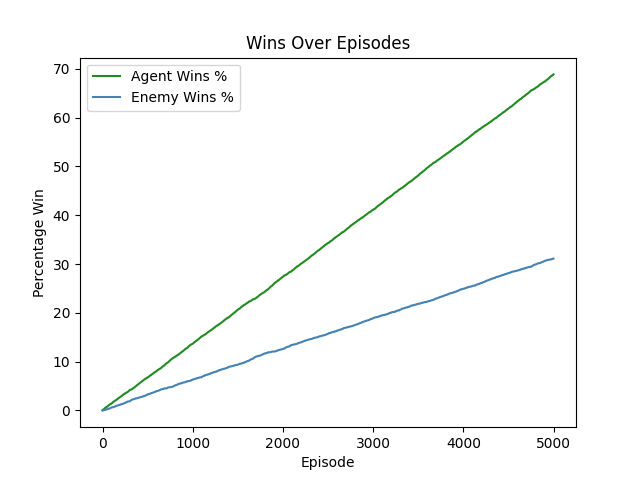
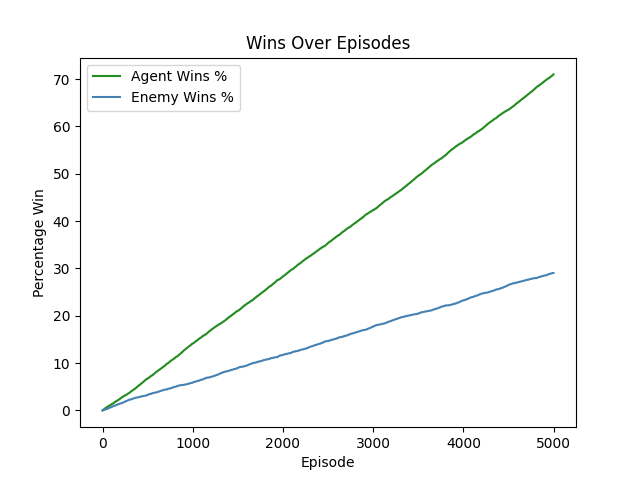
loading updated models

diff --git a/training/q_learning.py b/training/q_learning.py
@@ -10,7 +10,7 @@ from environment.rewards import states
 
 
 SAVE_CSV_RESULTS = False     # True in grid search mode, else False.
-SAVE_PLOTS = True            # True when not in grid search mode, else False.
+SAVE_PLOTS = True          # True when not in grid search mode, else False.
 SELF_PLAY = True
 
 
@@ -183,7 +183,7 @@ if __name__ == '__main__':
 
     # The best configuration.
     exploration_probabilities = [0.1]
-    learning_rates = [0.4]
+    learning_rates = [0.3]
     discount_factors = [0.3]
 
     best_percentage_win_agent = 0

diff --git a/training/sarsa.py b/training/sarsa.py
@@ -186,8 +186,8 @@ if __name__ == '__main__':
 
     # The best configuration.
     exploration_probabilities = [0.1]
-    learning_rates = [0.4]
-    discount_factors = [0.3]
+    learning_rates = [0.3]
+    discount_factors = [0.9]
 
     best_percentage_win_agent = 0
 

diff --git a/test/q_learning.py b/test/q_learning.py
@@ -134,7 +134,7 @@ if __name__ == '__main__':
     np.random.seed(42)
     num_wins_agent = 0
 
-    mode = 'Q_SELF-VS-RANDOM'
+    mode = 'Q_SELF-VS-Q'
 
     for i in tqdm(range(0, 5000), desc='Game progress'):
         win_agent = execute(mode)

diff --git a/test/sarsa.py b/test/sarsa.py
@@ -134,7 +134,7 @@ if __name__ == '__main__':
     np.random.seed(42)
     num_wins_agent = 0
 
-    mode = 'S_SELF-VS-RANDOM'
+    mode = 'S_SELF-VS-S'
 
     for i in tqdm(range(0, 5000), desc='Game progress'):
         win_agent = execute(mode)
